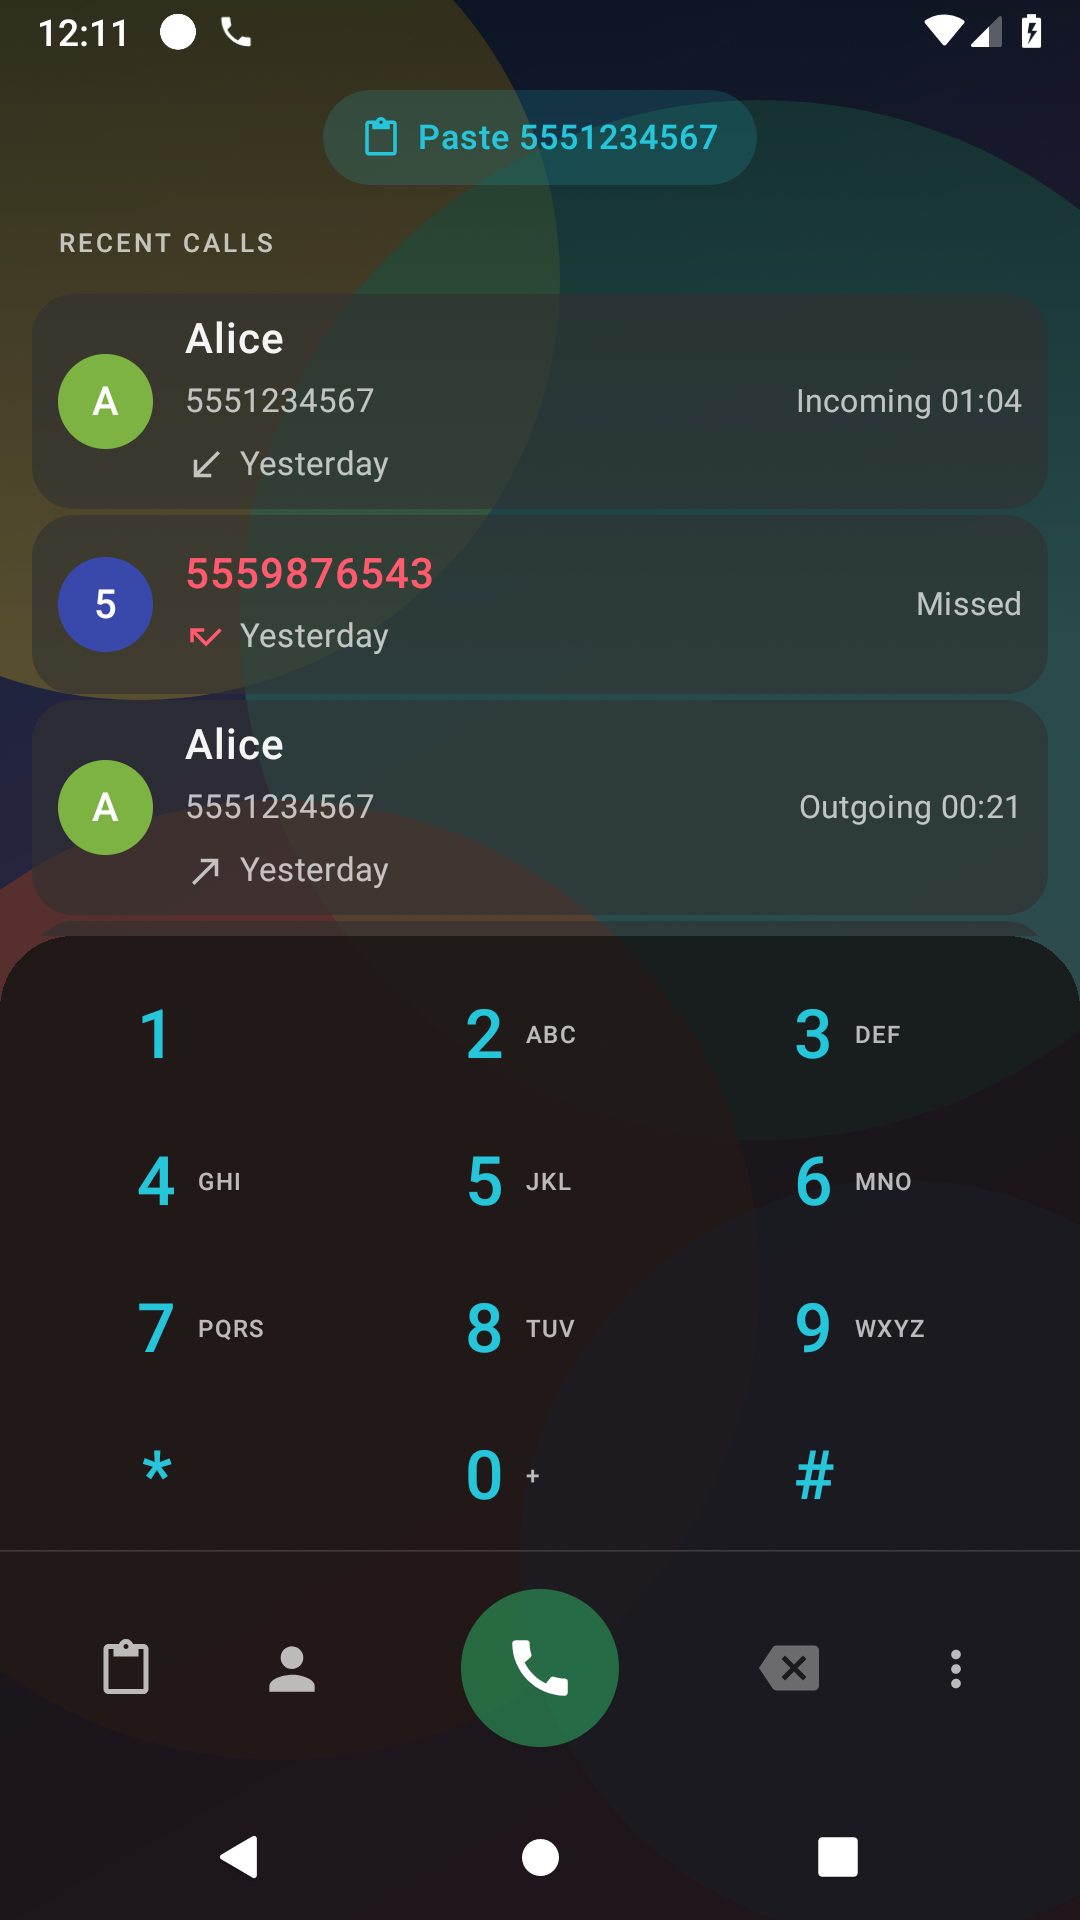
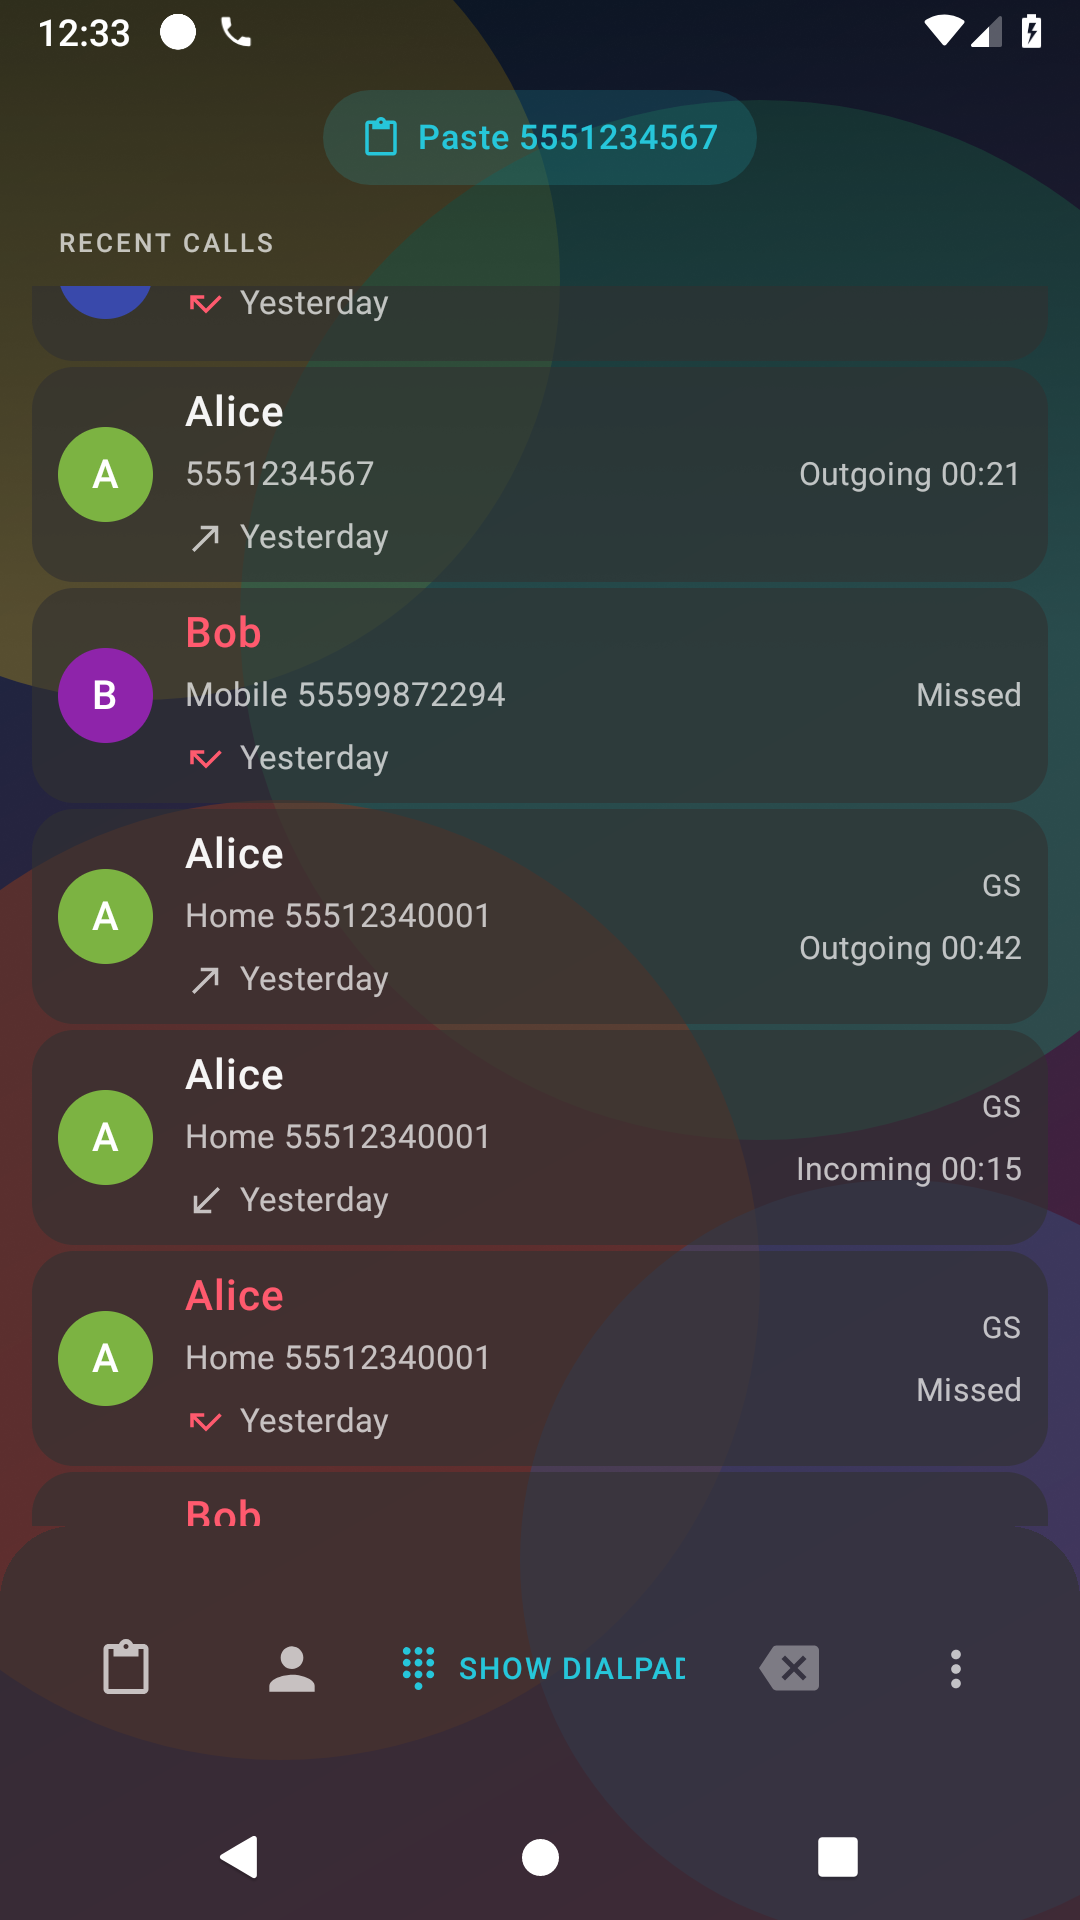
RC2 polish: clear unified dialpad panel, compact grouped long-press menu

diff --git a/app/src/main/java/com/nextdialer/ui/components/CallRowActionsDialog.kt b/app/src/main/java/com/nextdialer/ui/components/CallRowActionsDialog.kt
@@ -8,14 +8,20 @@ import android.content.Context
 import android.content.pm.PackageManager
 import android.provider.ContactsContract
 import android.widget.Toast
+import androidx.compose.foundation.background
 import androidx.compose.foundation.clickable
 import androidx.compose.foundation.layout.Column
 import androidx.compose.foundation.layout.Row
 import androidx.compose.foundation.layout.Spacer
 import androidx.compose.foundation.layout.fillMaxWidth
+import androidx.compose.foundation.layout.heightIn
 import androidx.compose.foundation.layout.padding
 import androidx.compose.foundation.layout.size
 import androidx.compose.foundation.layout.width
+import androidx.compose.foundation.layout.widthIn
+import androidx.compose.foundation.rememberScrollState
+import androidx.compose.foundation.shape.RoundedCornerShape
+import androidx.compose.foundation.verticalScroll
 import androidx.compose.material.icons.Icons
 import androidx.compose.material.icons.filled.Call
 import androidx.compose.material.icons.filled.ContentCopy
@@ -29,6 +35,7 @@ import androidx.compose.material.icons.filled.Star
 import androidx.compose.material3.AlertDialog
 import androidx.compose.material3.HorizontalDivider
 import androidx.compose.material3.Icon
+import androidx.compose.material3.Surface
 import androidx.compose.material3.Text
 import androidx.compose.material3.TextButton
 import androidx.compose.runtime.Composable
@@ -46,6 +53,8 @@ import androidx.compose.ui.text.font.FontWeight
 import androidx.compose.ui.text.style.TextOverflow
 import androidx.compose.ui.unit.dp
 import androidx.compose.ui.unit.sp
+import androidx.compose.ui.window.Dialog
+import androidx.compose.ui.window.DialogProperties
 import androidx.core.content.ContextCompat
 import com.nextdialer.data.CallEntry
 import com.nextdialer.data.DialerSettings
@@ -54,8 +63,8 @@ import com.nextdialer.util.DialerIntents
 import com.nextdialer.util.Formatters
 
 /**
- * Dynamic long-press menu for a call row. Registered contacts get view/edit/favourite/delete
- * actions; unknown numbers get Add contact. The number can always be copied or shared.
+ * Compact long-press context menu for a call row. Registered contacts get view/edit/favourite/
+ * delete actions; unknown numbers get Add contact. The number can always be copied or shared.
  */
 @Composable
 fun CallRowActionsDialog(
@@ -73,6 +82,7 @@ fun CallRowActionsDialog(
     val isContact = contactId != null
     val name = call.displayName
         ?: Formatters.formatPhone(context, call.number, settings.formatNumber)
+    val number = Formatters.formatPhone(context, call.number, settings.formatNumber)
     val starred by produceState(initialValue = false, contactId) {
         value = contactId?.let { isStarred(context, it) } ?: false
     }
@@ -83,22 +93,44 @@ fun CallRowActionsDialog(
         action()
     }
 
-    AlertDialog(
+    Dialog(
         onDismissRequest = onDismiss,
-        containerColor = theme.surfaceStrong,
-        titleContentColor = theme.textPrimary,
-        textContentColor = theme.textSecondary,
-        title = {
-            Text(
-                text = name,
-                fontSize = 18.sp,
-                fontWeight = FontWeight.SemiBold,
-                maxLines = 1,
-                overflow = TextOverflow.Ellipsis,
-            )
-        },
-        text = {
-            Column {
+        properties = DialogProperties(usePlatformDefaultWidth = false),
+    ) {
+        Surface(
+            modifier = Modifier
+                .widthIn(max = 320.dp)
+                .fillMaxWidth(0.9f),
+            shape = RoundedCornerShape(22.dp),
+            color = theme.surfaceStrong,
+            tonalElevation = 0.dp,
+        ) {
+            Column(
+                modifier = Modifier
+                    .heightIn(max = 560.dp)
+                    .verticalScroll(rememberScrollState())
+                    .padding(vertical = 10.dp),
+            ) {
+                Column(modifier = Modifier.padding(horizontal = 20.dp, vertical = 8.dp)) {
+                    Text(
+                        text = name,
+                        color = theme.textPrimary,
+                        fontSize = 17.sp,
+                        fontWeight = FontWeight.SemiBold,
+                        maxLines = 1,
+                        overflow = TextOverflow.Ellipsis,
+                    )
+                    if (number.isNotBlank() && number != name) {
+                        Text(
+                            text = number,
+                            color = theme.textSecondary,
+                            fontSize = 12.sp,
+                            maxLines = 1,
+                            overflow = TextOverflow.Ellipsis,
+                        )
+                    }
+                }
+                MenuDivider(theme)
                 RowAction(
                     icon = Icons.Filled.Call,
                     label = "Call",
@@ -111,6 +143,7 @@ fun CallRowActionsDialog(
                     theme = theme,
                     onClick = { run(onSms) },
                 )
+                MenuDivider(theme)
                 if (isContact) {
                     RowAction(
                         icon = Icons.Filled.Person,
@@ -151,6 +184,7 @@ fun CallRowActionsDialog(
                         },
                     )
                 }
+                MenuDivider(theme)
                 RowAction(
                     icon = Icons.Filled.ContentCopy,
                     label = "Copy number",
@@ -174,8 +208,10 @@ fun CallRowActionsDialog(
                         run { DialerIntents.shareContact(context, name, call.number) }
                     },
                 )
+                if (onDelete != null || isContact) {
+                    MenuDivider(theme)
+                }
                 if (onDelete != null) {
-                    HorizontalDivider(color = theme.divider)
                     RowAction(
                         icon = Icons.Filled.Delete,
                         label = "Delete call history",
@@ -194,13 +230,8 @@ fun CallRowActionsDialog(
                     )
                 }
             }
-        },
-        confirmButton = {
-            TextButton(onClick = onDismiss) {
-                Text("Cancel", color = theme.textSecondary)
-            }
-        },
-    )
+        }
+    }
 
     if (confirmDeleteContact && contactId != null) {
         AlertDialog(
@@ -229,6 +260,15 @@ fun CallRowActionsDialog(
             },
         )
     }
+}
+
+@Composable
+private fun MenuDivider(theme: DialerTheme) {
+    HorizontalDivider(
+        color = theme.divider,
+        thickness = 0.6.dp,
+        modifier = Modifier.padding(horizontal = 20.dp, vertical = 4.dp),
+    )
 }
 
 private fun hasWriteContacts(context: Context): Boolean =
@@ -303,20 +343,20 @@ private fun RowAction(
         modifier = Modifier
             .fillMaxWidth()
             .clickable(onClick = onClick)
-            .padding(horizontal = 6.dp, vertical = 12.dp),
+            .padding(horizontal = 20.dp, vertical = 10.dp),
         verticalAlignment = Alignment.CenterVertically,
     ) {
         Icon(
             imageVector = icon,
             contentDescription = null,
             tint = tint,
-            modifier = Modifier.size(19.dp),
+            modifier = Modifier.size(18.dp),
         )
         Spacer(Modifier.width(14.dp))
         Text(
             text = label,
             color = if (label.startsWith("Delete")) theme.missedRed else theme.textPrimary,
-            fontSize = 15.sp,
+            fontSize = 14.5.sp,
         )
     }
 }

diff --git a/app/src/main/java/com/nextdialer/ui/screens/DialpadScreen.kt b/app/src/main/java/com/nextdialer/ui/screens/DialpadScreen.kt
@@ -342,7 +342,7 @@ fun DialpadScreen(
 
         val keyHeight = (56f * (settings.dialpadHeight.coerceIn(60, 120) / 100f)).dp
         val showKeypad = keypadVisible || number.isNotEmpty()
-        val panelAlpha = if (theme.useWallpaper) 0.82f else 1f
+        val panelAlpha = if (theme.useWallpaper) 0.62f else 1f
         val keysAlign = when (settings.dialpadPosition) {
             1 -> Alignment.CenterStart
             2 -> Alignment.CenterEnd
@@ -354,7 +354,7 @@ fun DialpadScreen(
                 .fillMaxWidth()
                 .clip(RoundedCornerShape(topStart = 28.dp, topEnd = 28.dp))
                 .background(
-                    theme.navBar.copy(
+                    theme.surface.copy(
                         alpha = panelAlpha * (settings.dialpadOpacity.coerceIn(0, 100) / 100f),
                     ),
                 )

diff --git a/app/src/main/java/com/nextdialer/ui/components/BottomBars.kt b/app/src/main/java/com/nextdialer/ui/components/BottomBars.kt
@@ -78,7 +78,6 @@ fun DialpadBottomBar(
         modifier = modifier
             .fillMaxWidth(),
     ) {
-        HorizontalDivider(color = theme.divider, thickness = 0.6.dp)
         Row(
             modifier = Modifier
                 .fillMaxWidth()

diff --git a/docs/DEVLOG.md b/docs/DEVLOG.md
@@ -364,8 +364,11 @@
 
 ### RC2 follow-up
 
-- Unified the dialpad keys panel and bottom bar on the previous Recents nav-bar style; the
-  opacity slider now applies to that single container, removing the brown/black split.
+- Unified the dialpad keys panel and bottom bar on one clear translucent surface with no divider;
+  the opacity slider now applies to that single container, removing the brown/black split and the
+  line that appeared when the keypad was collapsed.
+- Made the long-press menu a compact, grouped context panel with the contact number under the
+  title and no oversized blank space/Cancel row.
 - Made the long-press menu dynamic:
   - registered contact → View contact, Edit contact, Add/Remove favorite, Delete contact;
   - unknown number → Add contact;
@@ -373,8 +376,8 @@
   - Added `WRITE_CONTACTS` to the manifest and permission request for favorite/edit/delete.
 - Removed the Crystal status-bar tint for wallpaper themes: the Android status bar now stays
   transparent over the wallpaper (the black top readability shade remains).
-- Rebuilt RC2 (`6A21F245…` SHA-256) and verified the unified panel, transparent status bar and
-  dynamic menu on the emulator.
+- Rebuilt RC2 (`CB21549F…` SHA-256) and verified the clear unified panel, transparent status bar
+  and compact dynamic menu on the emulator.
 
 ### Next
 

diff --git a/README.md b/README.md
@@ -106,9 +106,9 @@ NEXT Dialer.
   each synced account, with contact counts. Filters Contacts, T9 search and name matching.
 - **Dialpad sizing**: width (50–100 %), height (60–120 %), left/centre/right position, and a
   background-opacity slider. Key grid sizing is independent of the full-width bottom bar.
-- **Unified dialpad/list container**: the keys and bottom bar now use the same previous
-  Recents nav-bar background; the call/SHOW DIALPAD slots are wider and SHOW DIALPAD has an icon
-  and larger text.
+- **Unified dialpad container**: the keys and bottom bar share one clear translucent surface
+  style with no divider line, matching the earlier look; the call/SHOW DIALPAD slots are wider
+  and SHOW DIALPAD has an icon and larger text.
 - **Accent picker**: standard, light and dark palettes plus Whitesmoke and Almost black, an
   Auto (background) mode, and a custom RRGGBB picker. The accent no longer recolours the status
   bar, and the Crystal status bar stays transparent over the wallpaper.

diff --git a/docs/PLAN.md b/docs/PLAN.md
@@ -182,7 +182,7 @@ which is deferred.
     contacts, Add contact for unknown numbers, plus Copy number and Share.
   - Contact-source checklist (All / Phone / SIM / accounts).
   - Dialpad width, height, left/centre/right position and background opacity; the keys and bar
-    share the previous Recents nav-bar background style; wider call and SHOW DIALPAD slots.
+    share one clear translucent surface with no divider line; wider call and SHOW DIALPAD slots.
   - Accent picker: whitesmoke, almost black, auto and custom hex; accent no longer changes the
     status bar, and the Crystal status bar stays transparent.
   - Contact-history rows disable tap and swipe to prevent recursive navigation.
